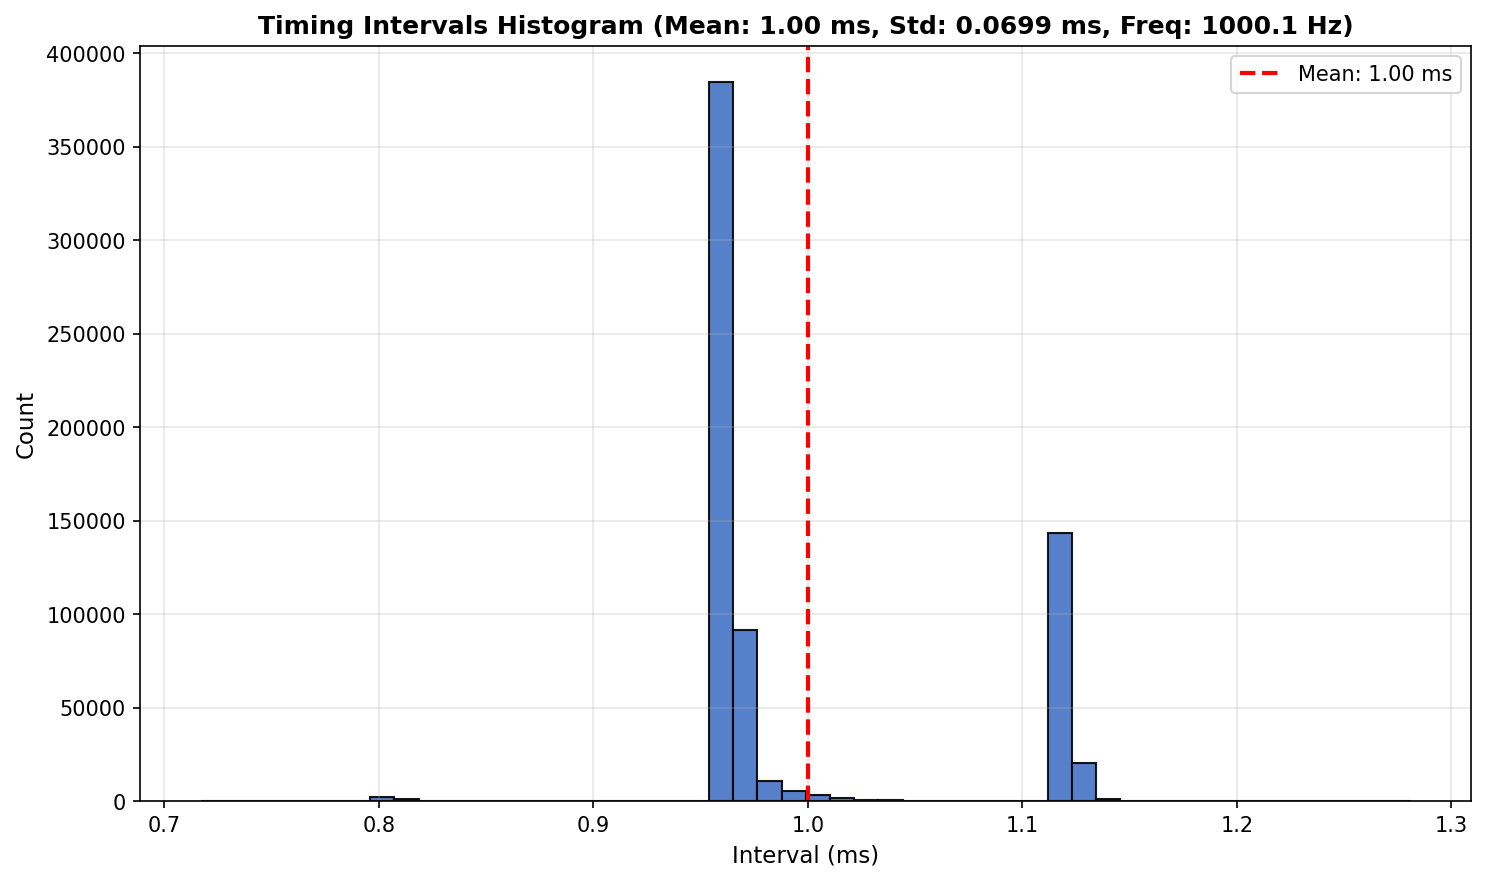
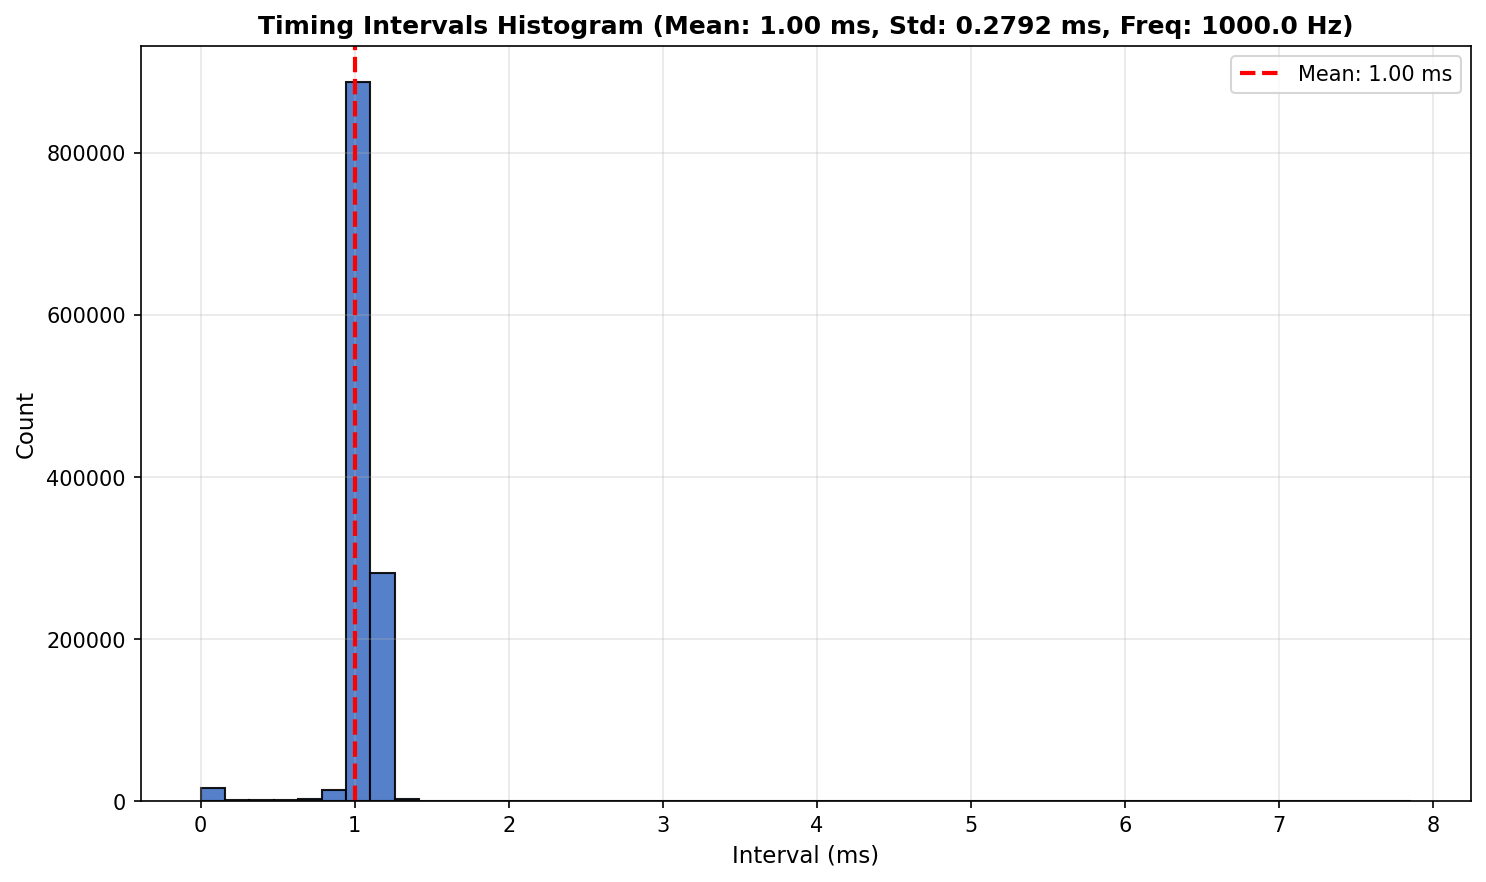
refactor: Updated the plots.

diff --git a/plot_timing_histograms.py b/plot_timing_histograms.py
@@ -251,7 +251,7 @@ def main():
     if imu_files:
         imu_file = imu_files[0]
         print(f"\nProcessing: {imu_file.name}")
-        intervals = process_csv_file(imu_file, remove_outliers_flag=True)
+        intervals = process_csv_file(imu_file, remove_outliers_flag=False)
         
         if intervals is not None and len(intervals) > 0:
             output_path = None if args.show else output_dir / 'imu_timing_histogram.png'
@@ -265,7 +265,7 @@ def main():
     if ins_files:
         ins_file = ins_files[0]
         print(f"\nProcessing: {ins_file.name}")
-        intervals = process_csv_file(ins_file, remove_outliers_flag=True)
+        intervals = process_csv_file(ins_file, remove_outliers_flag=False)
         
         if intervals is not None and len(intervals) > 0:
             output_path = None if args.show else output_dir / 'ins_timing_histogram.png'
